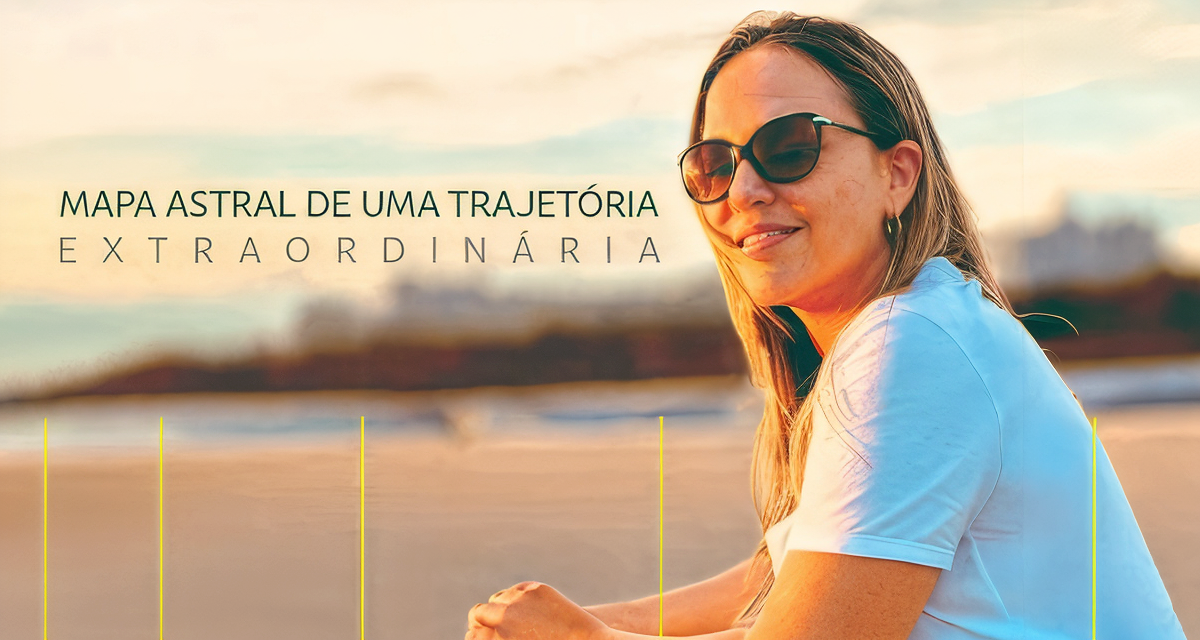
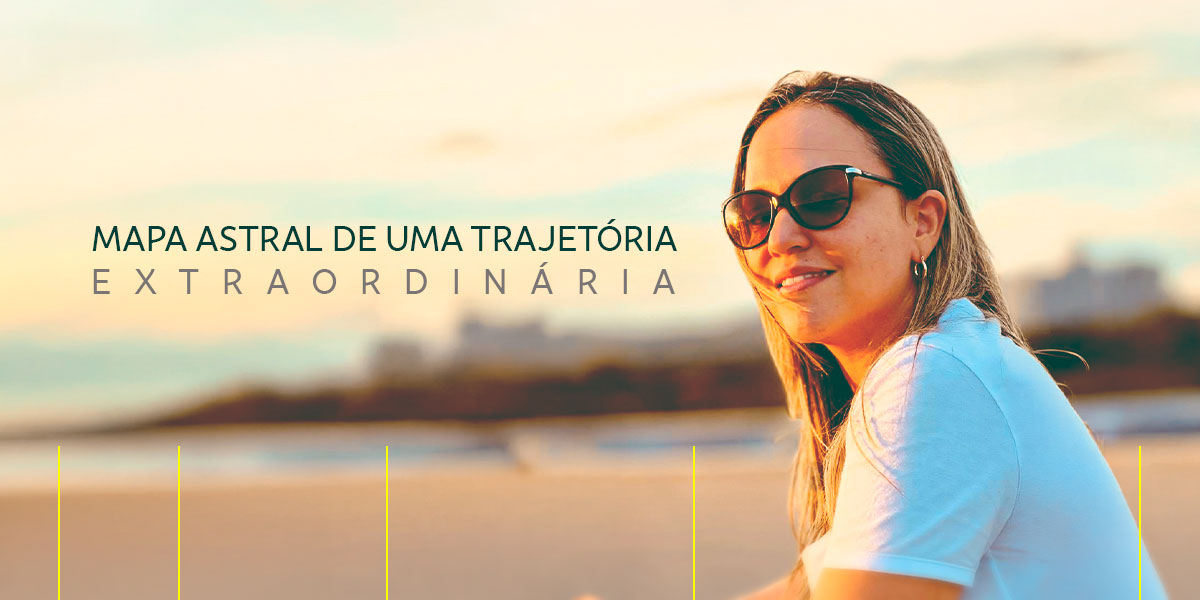
atualização da imagem do Hero e adição de depoimentos nos cards

diff --git a/assets/depoimentos.js b/assets/depoimentos.js
@@ -58,10 +58,34 @@ window.DEPOIMENTOS = [
   },
 
 
-  // {
-  //   nome: '',
-  //   texto: '',
-  // },
+  {
+    nome: 'Cibele Martins Varao',
+    texto: 'Flavinha querida, como esse mundo dá voltas e como foi um presente ter convivido esses meses contigo! Quem diria que depois daquele curso de OFIPA tantos anos atrás nossas vidas se cruzariam assim. Que essa nova etapa da sua jornada seja incrível, cheia de experiências fantásticas e histórias pra contar. Aproveita muito, viva intensamente, você merece demais! E fico aqui na torcida pra que os astros façam com que nossas vidas se cruzem mais vezes! Beijo grande!',
+  },
+  {
+    nome: 'Luciana Caldas Silva',
+    texto: 'Flavinha, desejo muito sucesso na sua nova jornada. Que essa nova fase seja repleta de aventuras, conquistas e momentos especiais. Boa sorte e até logo! Luciana Caldas.',
+  },
+  {
+    nome: 'Carolina Soares Santos',
+    texto: 'Flavinha, hoje nos despedimos de você com um misto de alegria e saudade. Desejo que essa nova etapa em Nova York seja repleta de conquistas e muitos momentos felizes ao lado da sua família. Foi um privilégio caminhar um trecho dessa história com você. Muito sucesso nessa nova aventura! Carol Soares.',
+  },
+  {
+    nome: 'Maria Beatriz Cunha Alcantara',
+    texto: 'Que seu novo desafio seja incrível. Vá lá e brilhe muito! Beijos da Bia Alcântara.',
+  },
+  {
+    nome: 'Eloisa Maranho Heimbecher',
+    texto: 'Flavinha... que você seja muito feliz nessa nova jornada em NY!!!!',
+  },
+  {
+    nome: 'Marcio Sebastiao da Fonseca',
+    texto: 'Flavia, obrigado por todo o apoio, conselhos e parceria durante nossa convivência no CRM! Desejo a você e à sua família muito sucesso, felicidade e grandes realizações nesta nova e incrível jornada em Nova York. Um grande abraço a todos!',
+  },
+  {
+    nome: 'Rodrigo Caetano de Souza',
+    texto: 'Sucesso, Flavinha! Que venham muitos motivos para comemorar nessa nova caminhada! Foi um prazer trabalhar com você!!!',
+  },
 
 
   {